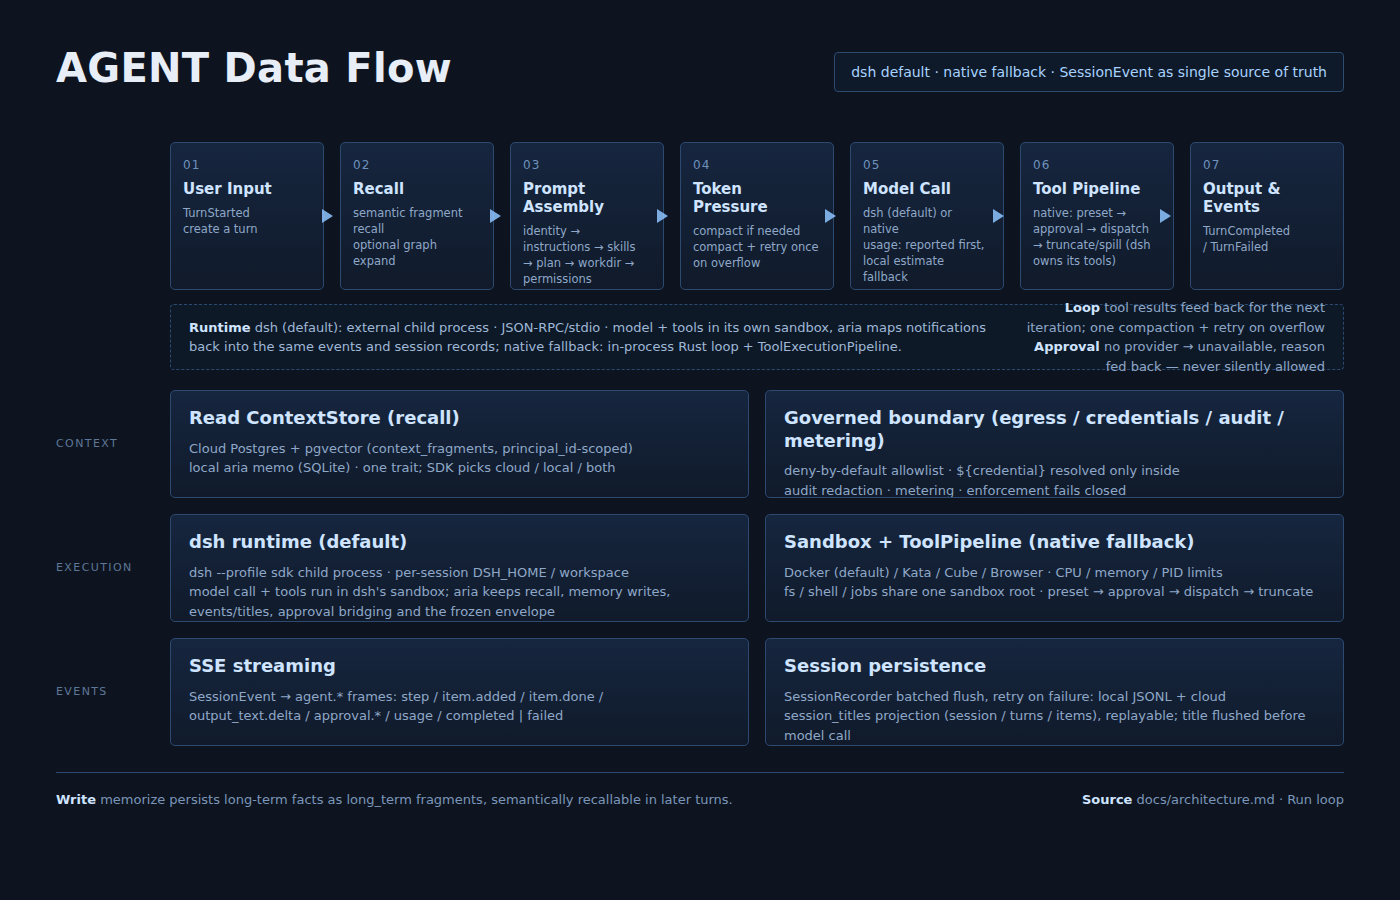
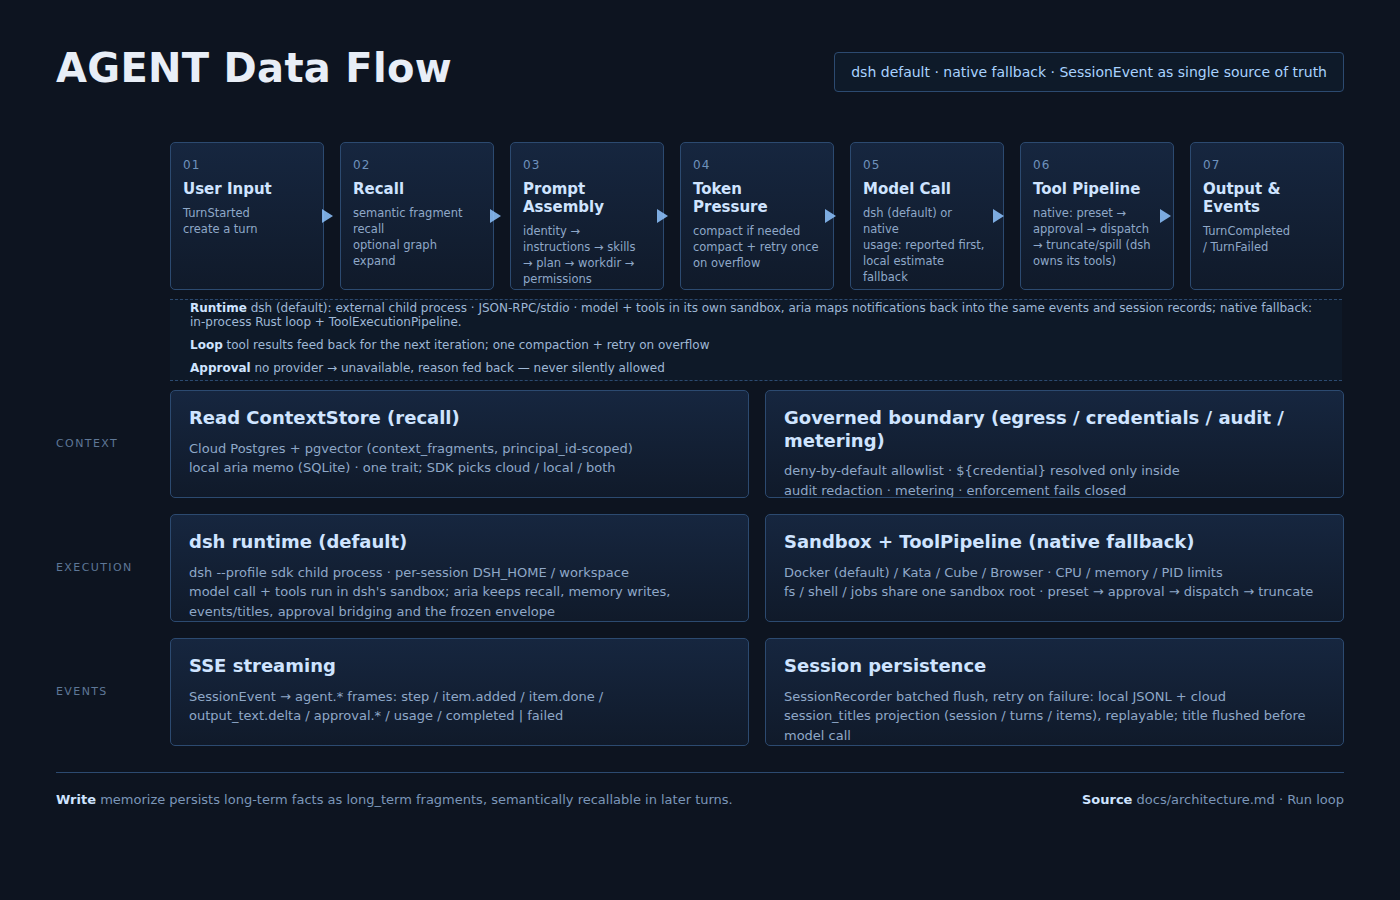
docs(readme): update README files

Changed region(s): [[0.1229, 0.3111, 0.9521, 0.4356]]

diff --git a/README_cn.md b/README_cn.md
@@ -37,6 +37,7 @@ SDK**（该 HTTP API 的客户端），以及 (c) **Swift / Kotlin 原生 SDK** 
 
 **架构与 SDK**
 
+- [🐋 本轮运行时（turn runtime）](#-本轮运行时turn-runtime)
 - [🌐 浏览器 sandbox](#-浏览器-sandbox)
 - [🧠 记忆图与 memo 工具族](#-记忆图与-memo-工具族)
 - [🔌 OpenAI Agents API 兼容性](#-openai-agents-api-兼容性)
@@ -80,20 +81,6 @@ SDK**（该 HTTP API 的客户端），以及 (c) **Swift / Kotlin 原生 SDK** 
 
 以能力接缝组合的 agent 运行时：`aria-agent-core` 负责 agent 外壳，每项能力都是可替换的
 provider；云端与原生前端共享同一套 `recall → runtime → memorize` 流程。
-
-### 本轮运行时（turn runtime）
-
-turn 循环本身就是 `agent_loop` 接缝，默认提供方是 **DeepSeek Harness**：每个会话一个
-`dsh` 子进程，经 JSON-RPC 通信，拥有独立的 `DSH_HOME` 与工作目录、白名单环境变量，并以
-池化方式复用（空闲回收）。dsh 同时执行模型调用**与它自己的工具**，所以在
-`harness = "dsh"` 下 aria 的 sandbox/工具管线不再参与本轮；aria 仍负责 recall、记忆落库、
-会话事件与标题、审批/提问桥接以及对外信封。`AGENT_HARNESS=native` 可显式切回
-内置 Rust 循环；未知取值，或选了 `dsh` 却没有可用运行时，都直接报错，绝不静默降级。
-
-```bash
-just dsh-smoke  # 脚本化假运行时：握手 + 回合帧序，离线可跑
-just dsh-e2e    # 真实一轮（需 ARIA_DSH_E2E=1 + DSH_BIN + 供应商密钥）
-```
 
 ### 技术栈
 
@@ -434,10 +421,33 @@ echo "DOCKER_GID set to $DOCKER_GID"
 
 ### E2E 测试
 
-`just e2e`（即 `cargo test -p agent-tests --test e2e_http`）将生产 axum router 绑定到临时回环端口，用真实 HTTP 客户端驱动 beta Agents API，覆盖 agent/session/turn 生命周期、SSE 帧、工具调用、租户隔离、记忆与异常路径。两个可选场景在缺少依赖时打印跳过原因，不会伪造通过：
+所有与 E2E 相关的 `just` 命令：
+
+| 命令 | 作用 |
+|---|---|
+| `just e2e` | 运行真实 socket 的 HTTP E2E 套件（`cargo test -p agent-tests --test e2e_http`）；可选 DB/Docker 场景缺依赖时跳过。 |
+| `just dsh-smoke` | 拉起脚本化假 `dsh`，校验 JSON-RPC 握手与回合帧序（`cargo test -p aria-agent-dsh --test stdio -- --nocapture`）；离线、无需凭据。 |
+| `just dsh-e2e` | 用真实 `dsh` 跑一轮（`ARIA_DSH_E2E=1 cargo test -p aria-agent-dsh --test e2e_live -- --nocapture`）；需 `DSH_BIN` 以及 provider 端点与密钥（`DEEPSEEK_BASE_URL` / `DEEPSEEK_API_KEY`，如阿里云 Model Studio 的 OpenAI 兼容路由），缺依赖时明确跳过；该 `just` 任务会自动设置 `ARIA_DSH_E2E=1`。 |
+
+`just e2e` 将生产 axum router 绑定到临时回环端口，用真实 HTTP 客户端驱动 beta Agents API，覆盖 agent/session/turn 生命周期、SSE 帧、工具调用、租户隔离、记忆与异常路径。两个可选场景在缺少依赖时打印跳过原因，不会伪造通过：
 
 - `DATABASE_URL` —— 通过两个独立构建的 router 验证 Postgres + pgvector 存储；未设置或不可达时跳过。
 - `ARIA_E2E_DOCKER=1` —— 经流式路由在真实容器中执行 `shell` 工具；需 Docker 守护进程可达且本地已有 `alpine:latest` 镜像，否则跳过。
+
+<div align="right">
+
+[![][back-to-top]](#readme-top)
+
+</div>
+
+## 🐋 本轮运行时（turn runtime）
+
+turn 循环本身就是 `agent_loop` 接缝，默认提供方是 **DeepSeek Harness**：每个会话一个
+`dsh` 子进程，经 JSON-RPC 通信，拥有独立的 `DSH_HOME` 与工作目录、白名单环境变量，并以
+池化方式复用（空闲回收）。dsh 同时执行模型调用**与它自己的工具**，所以在
+`harness = "dsh"` 下 aria 的 sandbox/工具管线不再参与本轮；aria 仍负责 recall、记忆落库、
+会话事件与标题、审批/提问桥接以及对外信封。`AGENT_HARNESS=native` 可显式切回
+内置 Rust 循环；未知取值，或选了 `dsh` 却没有可用运行时，都直接报错，绝不静默降级。
 
 <div align="right">
 

diff --git a/README.md b/README.md
@@ -37,6 +37,7 @@ by default, with pluggable sandboxes.
 
 **Architecture & SDK**
 
+- [🐋 Turn runtime](#-turn-runtime)
 - [🌐 Browser sandbox](#-browser-sandbox)
 - [🧠 Memory graph & memo tools](#-memory-graph--memo-tools)
 - [🔌 OpenAI Agents API compatibility](#-openai-agents-api-compatibility)
@@ -82,23 +83,6 @@ where tools execute:
 A capability-seam agent runtime: `aria-agent-core` owns the agent shell while every
 capability is a replaceable provider, with cloud and native front-ends sharing the
 same `recall → runtime → memorize` flow.
-
-### Turn runtime
-
-The turn loop is the `agent_loop` seam. Its default provider is **DeepSeek
-Harness**: one `dsh` child process per session, spoken to over JSON-RPC, with its
-own `DSH_HOME` and workspace, an allow-list environment, and a pooled runtime that
-reaps when idle. dsh executes the model call *and* its own tools, so under
-`harness = "dsh"` the aria sandbox/tool pipeline is idle; aria still owns recall,
-memory writes, session events/titles, approval + question bridging and the wire
-envelope. `AGENT_HARNESS=native` selects the built-in Rust loop instead;
-an unknown value — or `dsh` without an installed runtime — is a hard error, never
-a silent fallback.
-
-```bash
-just dsh-smoke  # scripted fake runtime: handshake + turn framing, offline
-just dsh-e2e    # one real turn (ARIA_DSH_E2E=1 + DSH_BIN + provider key)
-```
 
 ### Tech stack
 
@@ -467,10 +451,36 @@ warning, so the service always boots.
 
 ### E2E tests
 
-`just e2e` (`cargo test -p agent-tests --test e2e_http`) binds the production axum router to an ephemeral loopback port and drives the beta Agents API with a real HTTP client. It covers the agent/session/turn lifecycle, SSE frames, tool calls, tenant isolation, memory and error paths. Two optional scenarios skip with an explicit reason rather than faking a pass:
+All E2E-oriented `just` recipes:
+
+| Command | Effect |
+|---|---|
+| `just e2e` | Run the real-socket HTTP E2E suite (`cargo test -p agent-tests --test e2e_http`); optional DB/Docker cases skip when unavailable. |
+| `just dsh-smoke` | Spawn a scripted fake `dsh` and verify the JSON-RPC handshake + turn framing (`cargo test -p aria-agent-dsh --test stdio -- --nocapture`); offline, no credentials. |
+| `just dsh-e2e` | Run one live turn against a real `dsh` (`ARIA_DSH_E2E=1 cargo test -p aria-agent-dsh --test e2e_live -- --nocapture`); needs `DSH_BIN` plus a provider endpoint and key (`DEEPSEEK_BASE_URL` / `DEEPSEEK_API_KEY`, e.g. Alibaba Model Studio's OpenAI-compatible route), and skips loudly when unset. The recipe sets `ARIA_DSH_E2E=1`. |
+
+`just e2e` binds the production axum router to an ephemeral loopback port and drives the beta Agents API with a real HTTP client. It covers the agent/session/turn lifecycle, SSE frames, tool calls, tenant isolation, memory and error paths. Two optional scenarios skip with an explicit reason rather than faking a pass:
 
 - `DATABASE_URL` — exercises the Postgres + pgvector stores through two independently built routers; skipped when unset or unreachable.
 - `ARIA_E2E_DOCKER=1` — executes a `shell` tool in a real container via the streaming route; requires a reachable daemon and a locally cached `alpine:latest` image, otherwise skipped.
+
+<div align="right">
+
+[![][back-to-top]](#readme-top)
+
+</div>
+
+## 🐋 Turn runtime
+
+The turn loop is the `agent_loop` seam. Its default provider is **DeepSeek
+Harness**: one `dsh` child process per session, spoken to over JSON-RPC, with its
+own `DSH_HOME` and workspace, an allow-list environment, and a pooled runtime that
+reaps when idle. dsh executes the model call *and* its own tools, so under
+`harness = "dsh"` the aria sandbox/tool pipeline is idle; aria still owns recall,
+memory writes, session events/titles, approval + question bridging and the wire
+envelope. `AGENT_HARNESS=native` selects the built-in Rust loop instead;
+an unknown value — or `dsh` without an installed runtime — is a hard error, never
+a silent fallback.
 
 <div align="right">
 
